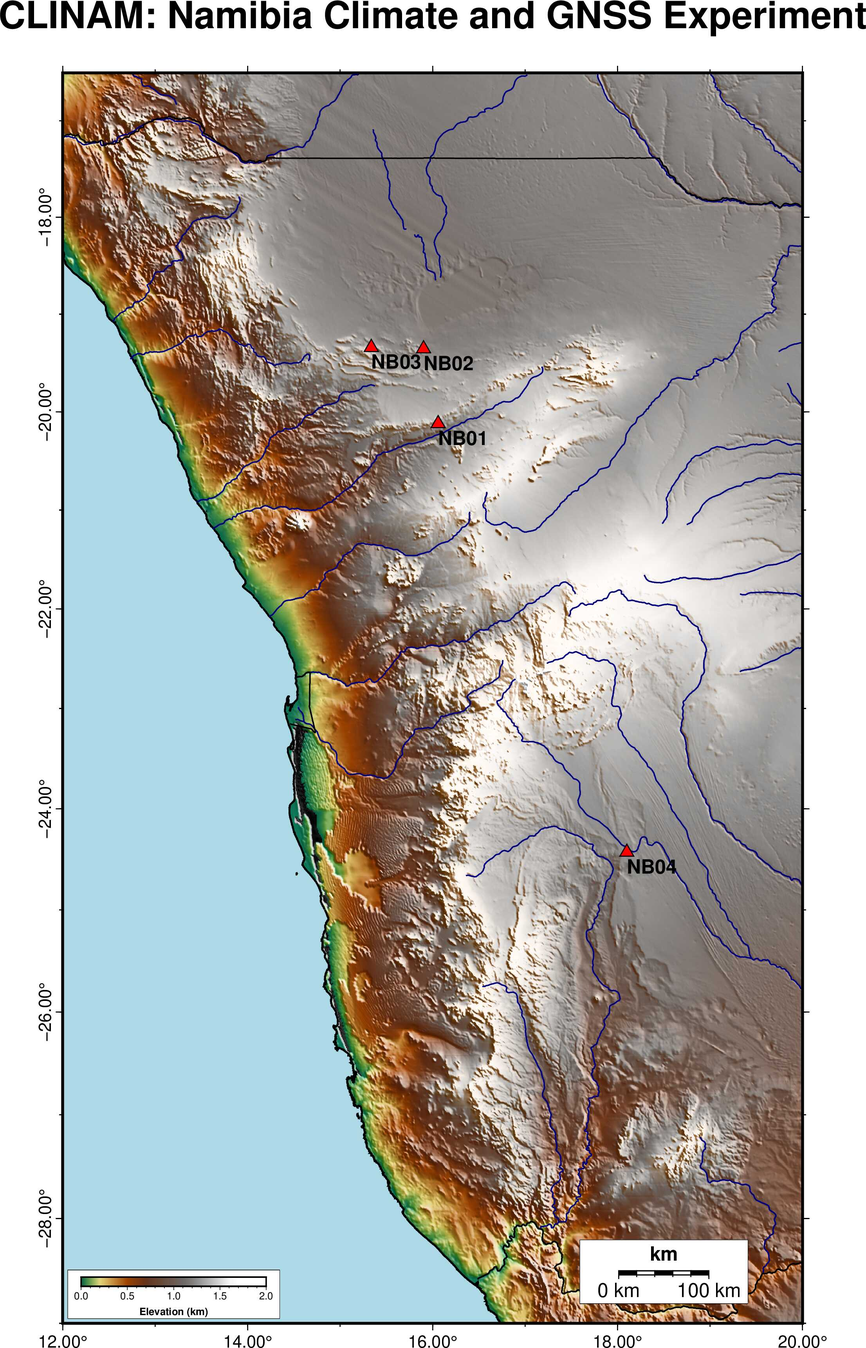
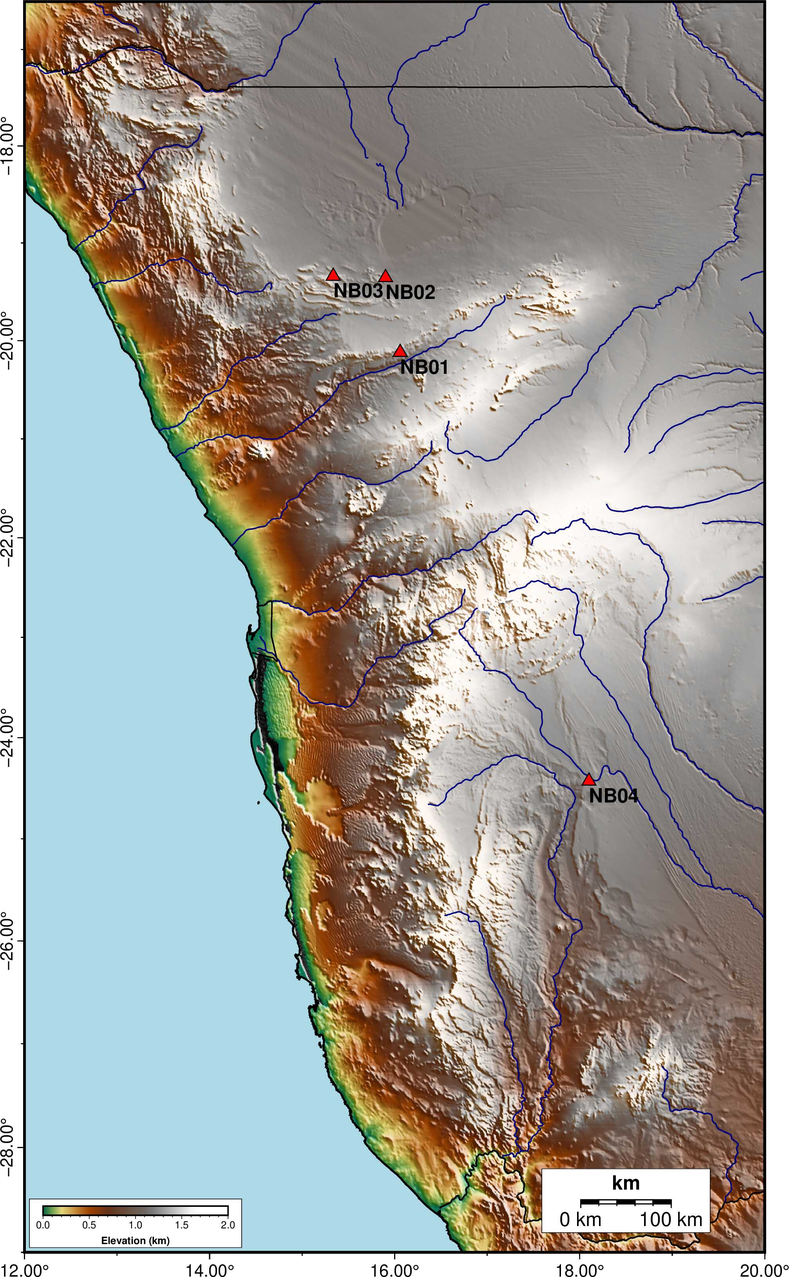
10-20-2026

diff --git a/index.md b/index.md
@@ -14,6 +14,11 @@ header:
   caption: "Photo credit: [Bodo Bookhagen](https://bodobookhagen.github.io/)"
 ---
 
+The *Climate and GNSS in Namibia* (CLINAM) experiment is an advanced network of continuous GNSS (Global Navigation Satellite System) and meteorological stations situated within Namibia. Launched in March 2026, the network currently operates 4 active scientific stations strategically located in northern and southern Namibia.
+
+CLINAM is led by the University of Potsdam in collaboration with [Sophienhof](https://sophienhof-lodge.com/de/), the [Ongava Research Center](https://orc.eco/), and the [Gondwana Kalahari Anib](https://gondwana-collection.com/).
+
+
 ![image-left](/images/GNSS_Namibia_logos.jpg){: .align-left}  **Core Scientific Objectives**
 - Atmospheric Water Vapor Sensing: Processing direct GNSS signals to quantify integrated water vapor (IWV) and reconstruct 3D atmospheric moisture transport dynamics.
 - GNSS Reflectometry (GNSS-R) & Hydrology: Leveraging reflected GNSS signals to perform high-resolution monitoring of surface soil moisture and near-surface hydrological processes.
@@ -21,5 +26,5 @@ header:
 - Hydrologic Deformation: Tracking sub-centimeter ground motion to better characterize subsurface hydrological dynamics.
 - In-Situ Meteorological Observations: Recording continuous, high-frequency weather variables—including air temperature, barometric pressure, and relative humidity—to analyze localized microclimates and storm dynamics.
 
-Contact [Bodo Bookhagen](mailto:bodo.bookhagen@uni-potsdam.de) with questions.
+Contact [Bodo Bookhagen](mailto:bodo.bookhagen@uni-potsdam.de) or [Nils Blaum](mailto:nils.blaum@uni-potsdam.de) with questions.
 
